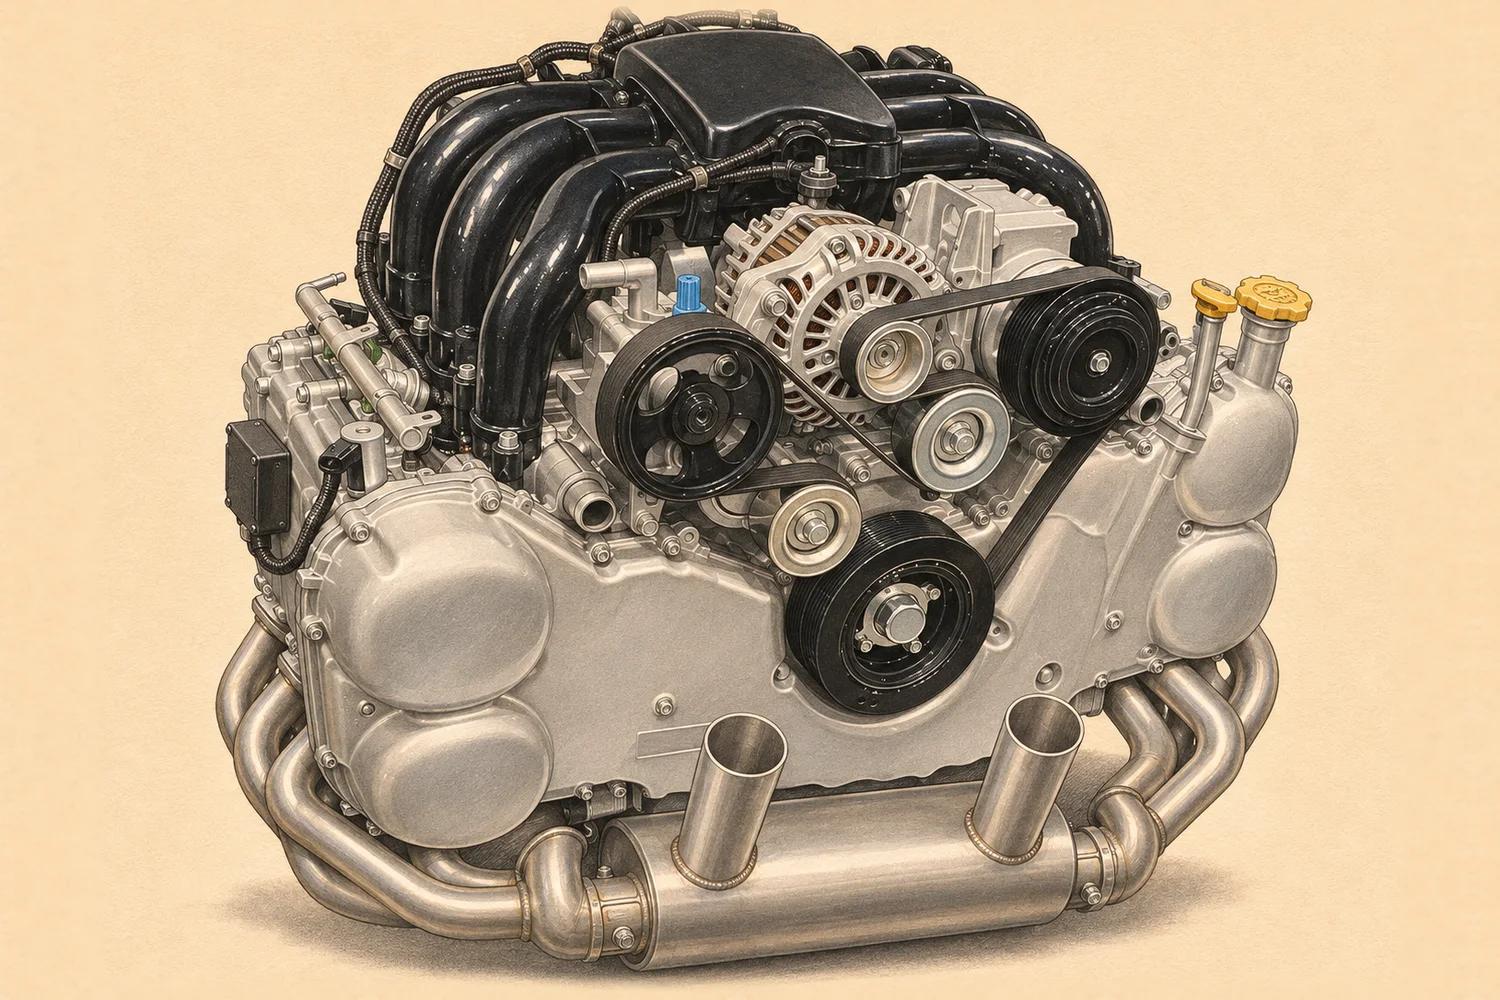
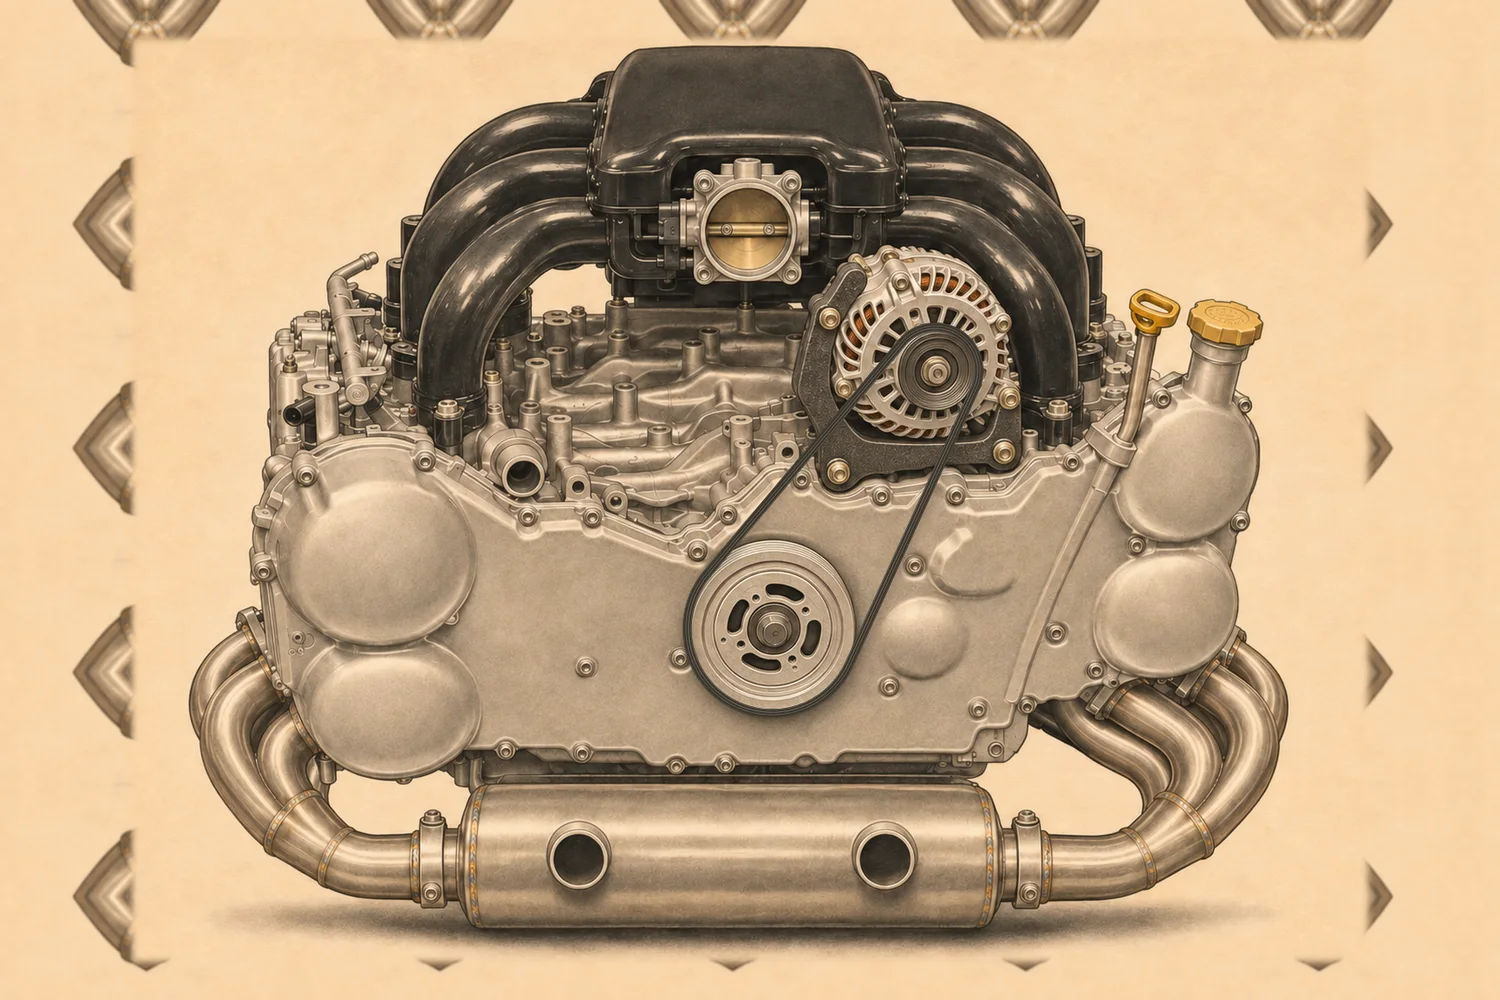
Engine plate: reversed manifold, alternator bracket, 911-style muffler

diff --git a/index.html b/index.html
@@ -336,11 +336,13 @@ footer .ig{color:var(--cyan);font-weight:800;text-decoration:none;letter-spacing
         <div class="panel"><b>~280 hp</b><p>About 270 lb-ft with headers and exhaust (our estimate)</p></div>
       </div>
       <ul class="specs">
+        <li>Intake manifold reversed, with the throttle body facing forward</li>
+        <li>Alternator on a custom bracket, tucked under the plenum</li>
         <li>Stainless headers into a 911-style dual outlet muffler</li>
         <li>Clean mil-spec harness with a compact interface box</li>
       </ul>
     </div>
-    <div class="media plate rise"><img src="img/kit-engine.webp" alt="Vintage service manual style drawing of a flat six engine with stainless headers, a dual outlet muffler and a neat wiring harness" loading="lazy"></div>
+    <div class="media plate rise"><img src="img/kit-engine.webp" alt="Vintage service manual style drawing of a flat six engine seen from the front, with a reversed intake manifold, throttle body facing forward, alternator on a custom bracket, stainless headers and a dual outlet muffler" loading="lazy"></div>
   </div>
 </section>
 <section class="block product" id="gearbox">
